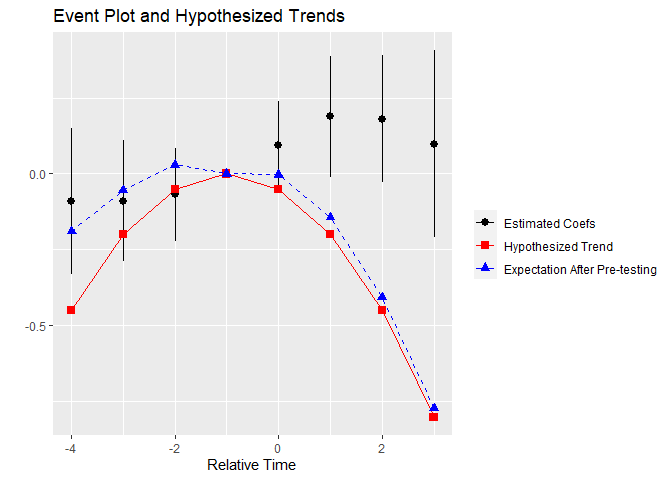
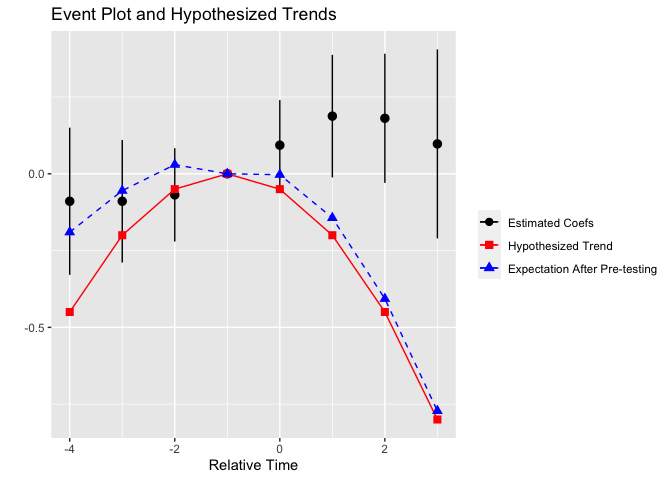
fixed bugs when only have one preperiod

diff --git a/README.md b/README.md
@@ -11,7 +11,7 @@ The pretrends package provides tools for power calculations for
 pre-trends tests, and visualization of possible violations of parallel
 trends. Calculations are based on [Roth
 (2020)](https://jonathandroth.github.io/assets/files/roth_pretrends_testing.pdf).
-(Please cite the paper if you enjoy the package\!)
+(Please cite the paper if you enjoy the package!)
 
 If you’re not an R user, you may also be interested in the associated
 [Shiny app](https://github.com/jonathandroth/PretrendsPower).
@@ -86,7 +86,7 @@ slope_for_power(sigma = sigma,
                 tVec = tVec,
                 referencePeriod = referencePeriod)
 slope50
-#> [1] 0.06992116
+#> [1] 0.06993189
 ```
 
 The package’s second (and main) function is *pretrends()*, which enables
@@ -116,24 +116,22 @@ pretrendsResults$event_plot
 Next, *df\_power* displays several useful statistics about the power of
 the pre-test against the hypothesized trend:
 
-  - **Power** The probability that we would find a significant pre-trend
+-   **Power** The probability that we would find a significant pre-trend
     under the hypothesized pre-trend. (This is 0.50 by construction in
     our example).
 
-  - **Bayes Factor** The ratio of the probability of ‘’passing’’ the
+-   **Bayes Factor** The ratio of the probability of ‘’passing’’ the
     pre-test under the hypothesized trend relative to under parallel
     trends.
 
-  - **Likelihood Ratio** The ratio of the likelihood of the observed
+-   **Likelihood Ratio** The ratio of the likelihood of the observed
     coefficients under the hypothesized trend relative to under
     pararallel trends.
-
-<!-- end list -->
 
 ``` r
 pretrendsResults$df_power
 #>       Power Bayes.Factor Likelihood.Ratio
-#> 1 0.4996759    0.5672377        0.8588128
+#> 1 0.5000274    0.5666286        0.8585905
 ```
 
 Next, *df\_eventplot* contains the data used to make the event-plot. It
@@ -144,14 +142,14 @@ hypothesized trend.
 ``` r
 pretrendsResults$df_eventplot
 #>    t     betahat   deltatrue         se meanAfterPretesting
-#> 1 -4 -0.08942866 -0.20976347 0.12228981         -0.12246120
-#> 2 -3 -0.08939153 -0.13984231 0.10185069         -0.07513433
-#> 3 -2 -0.06860359 -0.06992116 0.07761490         -0.03059641
+#> 1 -4 -0.08942866 -0.20979566 0.12228981         -0.12251641
+#> 2 -3 -0.08939153 -0.13986378 0.10185069         -0.07516523
+#> 3 -2 -0.06860359 -0.06993189 0.07761490         -0.03061148
 #> 4 -1  0.00000000  0.00000000 0.00000000          0.00000000
-#> 5  0  0.09308024  0.06992116 0.07494899          0.09017880
-#> 6  1  0.18774731  0.13984231 0.10177085          0.16448752
-#> 7  2  0.18067996  0.20976347 0.10727871          0.22996451
-#> 8  3  0.09727819  0.27968463 0.15696300          0.29193119
+#> 5  0  0.09308024  0.06993189 0.07494899          0.09019404
+#> 6  1  0.18774731  0.13986378 0.10177085          0.16451411
+#> 7  2  0.18067996  0.20979566 0.10727871          0.23000126
+#> 8  3  0.09727819  0.27972755 0.15696300          0.29197723
 ```
 
 Finally, the plot event\_plot\_pretest adds the *meanAfterPretesting* to
